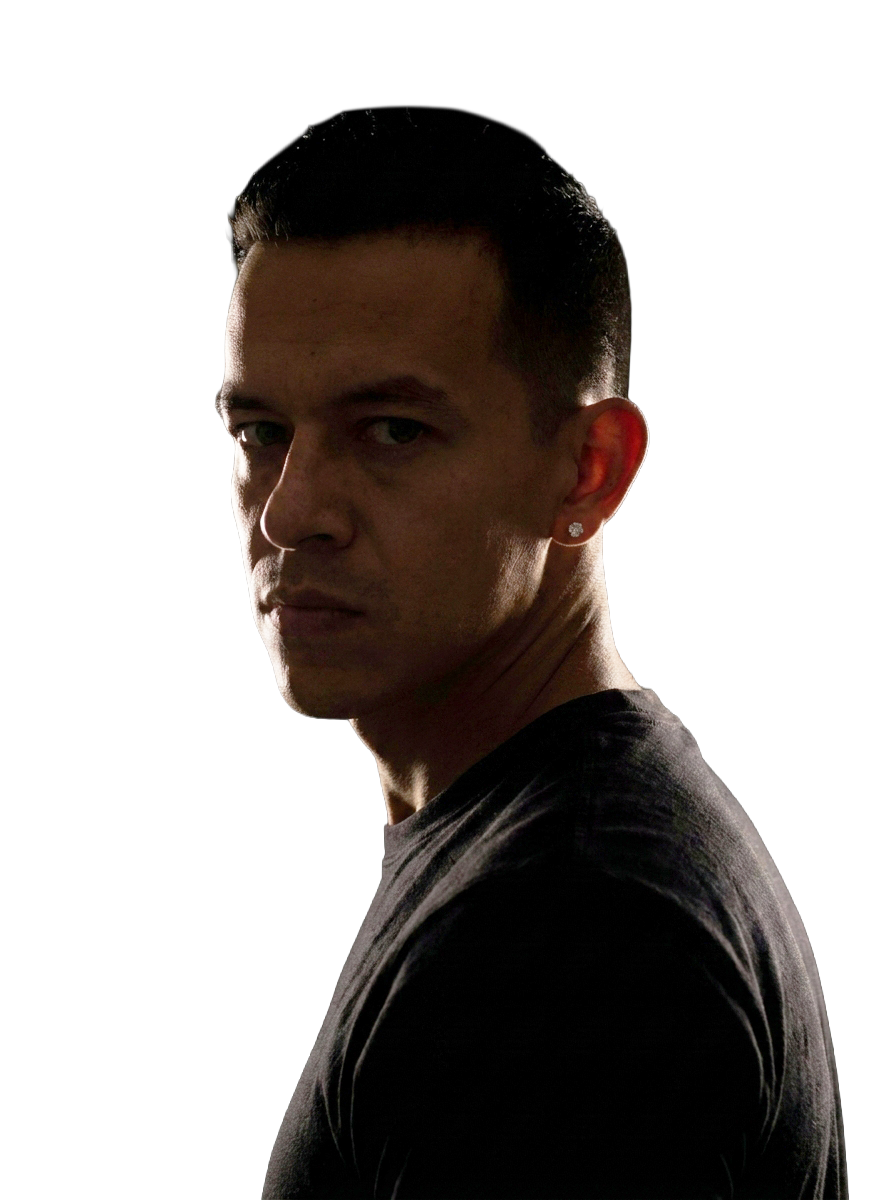
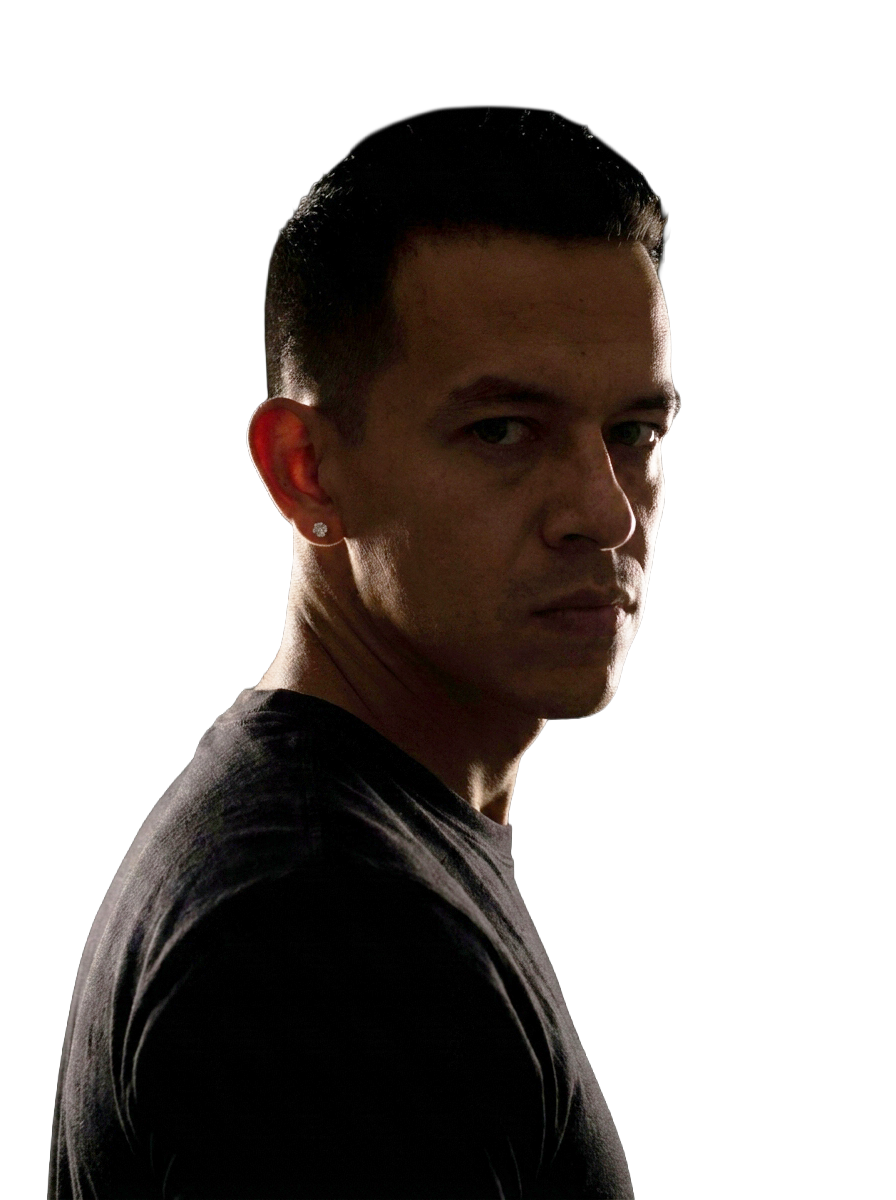
.

diff --git a/js/metodo.js b/js/metodo.js
@@ -1,13 +1,15 @@
 /* ═══════════════════════════════════════════════════════════════
    MÉTODO — Scroll horizontal + SplitText + ScrambleText
-   Animaciones reversibles, capas de profundidad
+   Animaciones cinematográficas reversibles, nivel Awwwards
 ═══════════════════════════════════════════════════════════════ */
 
 const Metodo = (() => {
   function init() {
     if (typeof gsap === 'undefined' || typeof ScrollTrigger === 'undefined') return;
 
-    gsap.registerPlugin(ScrambleTextPlugin);
+    if (typeof ScrambleTextPlugin !== 'undefined') {
+      gsap.registerPlugin(ScrambleTextPlugin);
+    }
 
     const section = document.querySelector('.metodo');
     if (!section) return;
@@ -42,7 +44,7 @@ const Metodo = (() => {
 
     const mm = gsap.matchMedia();
 
-    /* ══ DESKTOP/TABLET: scroll horizontal + animaciones reversibles ══ */
+    /* ══ DESKTOP/TABLET: scroll horizontal + animaciones cinematográficas ══ */
     mm.add('(min-width: 600px) and (prefers-reduced-motion: no-preference)', () => {
       const totalWidth = track.scrollWidth;
       const viewWidth  = window.innerWidth;
@@ -57,18 +59,18 @@ const Metodo = (() => {
 
         if (titulo && typeof SplitText !== 'undefined') {
           const s = new SplitText(titulo, { type: 'words' });
-          gsap.set(s.words, { opacity: 0, y: 40, rotateX: -15 });
+          gsap.set(s.words, { opacity: 0, y: 60, rotateX: -25, scale: 0.9 });
           splits.push(s);
         }
         if (desc && typeof SplitText !== 'undefined') {
           const s = new SplitText(desc, { type: 'words' });
-          gsap.set(s.words, { opacity: 0, y: 20 });
+          gsap.set(s.words, { opacity: 0, y: 30, filter: 'blur(4px)' });
           splits.push(s);
         }
         if (lineas.length && typeof SplitText !== 'undefined') {
           lineas.forEach(linea => {
             const s = new SplitText(linea, { type: 'chars' });
-            gsap.set(s.chars, { opacity: 0, y: 50, scale: 0.85 });
+            gsap.set(s.chars, { opacity: 0, y: 80, rotateY: -45, scale: 0.7 });
             splits.push(s);
           });
         }
@@ -80,7 +82,7 @@ const Metodo = (() => {
           trigger: section,
           start: 'top top',
           end: () => `+=${totalWidth - viewWidth}`,
-          scrub: 1.8,
+          scrub: 1.5,
           pin: true,
           anticipatePin: 1,
           invalidateOnRefresh: true,
@@ -92,7 +94,7 @@ const Metodo = (() => {
         ease: 'none',
       });
 
-      /* Animar cada panel — REVERSIBLE (sin once) */
+      /* ── Animar cada panel — REVERSIBLE ── */
       paneles.forEach(panel => {
         const titulo    = panel.querySelector('.metodo-panel-titulo');
         const desc      = panel.querySelector('.metodo-panel-desc');
@@ -104,8 +106,8 @@ const Metodo = (() => {
         ScrollTrigger.create({
           trigger: panel,
           containerAnimation: tl,
-          start: 'left 85%',
-          end: 'right 15%',
+          start: 'left 80%',
+          end: 'right 20%',
           onEnter: () => animarEntrada(panel, titulo, desc, num, watermark, lineas, manifiesto),
           onEnterBack: () => animarEntrada(panel, titulo, desc, num, watermark, lineas, manifiesto),
           onLeave: () => animarSalida(panel, titulo, desc, num, watermark, lineas, manifiesto),
@@ -113,56 +115,123 @@ const Metodo = (() => {
         });
       });
 
+      /* ── ENTRADA — Cinematográfica ── */
       function animarEntrada(panel, titulo, desc, num, watermark, lineas, manifiesto) {
+        /* Watermark: escala desde 1.5 con blur que se aclara */
         if (watermark) {
-          gsap.to(watermark, { scale: 1, opacity: 0.06, duration: 1, ease: 'power2.out' });
+          gsap.killTweensOf(watermark);
+          gsap.fromTo(watermark,
+            { scale: 1.5, opacity: 0, filter: 'blur(8px)' },
+            { scale: 1, opacity: 0.06, filter: 'blur(2px)', duration: 1.4, ease: 'power3.out' }
+          );
         }
+
+        /* Número de acto: fade con slide sutil */
         if (num) {
-          gsap.to(num, { opacity: 0.7, duration: 0.5, ease: 'power2.out' });
+          gsap.killTweensOf(num);
+          gsap.fromTo(num,
+            { opacity: 0, x: -20 },
+            { opacity: 0.7, x: 0, duration: 0.6, ease: 'power2.out' }
+          );
         }
-        if (titulo) {
-          const words = titulo.querySelectorAll('div');
-          gsap.to(words, { opacity: 1, y: 0, rotateX: 0, duration: 0.6, stagger: 0.04, ease: 'power3.out' });
-        }
+
+        /* Título intro (chars): cascada dramática con rotación 3D */
         if (lineas.length) {
           lineas.forEach((linea, i) => {
             const chars = linea.querySelectorAll('div');
-            gsap.to(chars, { opacity: 1, y: 0, scale: 1, duration: 0.5, stagger: 0.02, ease: 'back.out(1.3)', delay: i * 0.15 });
+            gsap.killTweensOf(chars);
+            gsap.fromTo(chars,
+              { opacity: 0, y: 80, rotateY: -45, scale: 0.7 },
+              {
+                opacity: 1, y: 0, rotateY: 0, scale: 1,
+                duration: 0.8,
+                stagger: { each: 0.03, from: 'start' },
+                ease: 'back.out(1.4)',
+                delay: i * 0.2,
+                force3D: true,
+              }
+            );
           });
         }
+
+        /* Título de acto (words): reveal elástico */
+        if (titulo) {
+          const words = titulo.querySelectorAll('div');
+          gsap.killTweensOf(words);
+          gsap.fromTo(words,
+            { opacity: 0, y: 60, rotateX: -25, scale: 0.9 },
+            {
+              opacity: 1, y: 0, rotateX: 0, scale: 1,
+              duration: 0.9,
+              stagger: 0.06,
+              ease: 'elastic.out(1, 0.6)',
+              force3D: true,
+            }
+          );
+        }
+
+        /* Descripción (words): fade up con blur clearing */
         if (desc) {
           const words = desc.querySelectorAll('div');
-          gsap.to(words, { opacity: 1, y: 0, duration: 0.4, stagger: 0.012, ease: 'power2.out', delay: 0.25 });
+          gsap.killTweensOf(words);
+          gsap.fromTo(words,
+            { opacity: 0, y: 30, filter: 'blur(4px)' },
+            {
+              opacity: 1, y: 0, filter: 'blur(0px)',
+              duration: 0.6,
+              stagger: 0.015,
+              ease: 'power3.out',
+              delay: 0.3,
+            }
+          );
         }
+
+        /* Texto manifiesto (palabras) */
         if (manifiesto) {
           const words = manifiesto.querySelectorAll('.metodo-palabra');
-          gsap.to(words, { opacity: 1, y: 0, duration: 0.4, stagger: 0.01, ease: 'power2.out' });
+          gsap.killTweensOf(words);
+          gsap.fromTo(words,
+            { opacity: 0, y: 15 },
+            {
+              opacity: 1, y: 0,
+              duration: 0.5,
+              stagger: 0.012,
+              ease: 'power2.out',
+            }
+          );
         }
       }
 
+      /* ── SALIDA — Elegante y rápida ── */
       function animarSalida(panel, titulo, desc, num, watermark, lineas, manifiesto) {
         if (watermark) {
-          gsap.to(watermark, { scale: 1.2, opacity: 0, duration: 0.5, ease: 'power2.in' });
+          gsap.killTweensOf(watermark);
+          gsap.to(watermark, { scale: 0.8, opacity: 0, filter: 'blur(6px)', duration: 0.5, ease: 'power2.in' });
         }
         if (num) {
-          gsap.to(num, { opacity: 0, duration: 0.3, ease: 'power2.in' });
+          gsap.killTweensOf(num);
+          gsap.to(num, { opacity: 0, x: 20, duration: 0.3, ease: 'power2.in' });
         }
         if (titulo) {
           const words = titulo.querySelectorAll('div');
-          gsap.to(words, { opacity: 0, y: -20, duration: 0.3, ease: 'power2.in' });
+          gsap.killTweensOf(words);
+          gsap.to(words, { opacity: 0, y: -30, scale: 0.95, duration: 0.35, ease: 'power2.in' });
         }
         if (lineas.length) {
           lineas.forEach(linea => {
             const chars = linea.querySelectorAll('div');
-            gsap.to(chars, { opacity: 0, y: -30, scale: 0.9, duration: 0.3, ease: 'power2.in' });
+            gsap.killTweensOf(chars);
+            gsap.to(chars, { opacity: 0, y: -40, rotateY: 30, scale: 0.8, duration: 0.35, ease: 'power2.in' });
           });
         }
         if (desc) {
           const words = desc.querySelectorAll('div');
-          gsap.to(words, { opacity: 0, y: -10, duration: 0.2, ease: 'power2.in' });
+          gsap.killTweensOf(words);
+          gsap.to(words, { opacity: 0, y: -15, filter: 'blur(3px)', duration: 0.25, ease: 'power2.in' });
         }
         if (manifiesto) {
           const words = manifiesto.querySelectorAll('.metodo-palabra');
+          gsap.killTweensOf(words);
           gsap.to(words, { opacity: 0, y: -10, duration: 0.2, ease: 'power2.in' });
         }
       }
@@ -173,7 +242,7 @@ const Metodo = (() => {
       };
     });
 
-    /* ══ MOBILE: scroll vertical ══ */
+    /* ══ MOBILE: scroll vertical con reveals ══ */
     mm.add('(max-width: 599px) and (prefers-reduced-motion: no-preference)', () => {
       track.style.flexDirection = 'column';
       track.style.width = '100%';
@@ -188,15 +257,30 @@ const Metodo = (() => {
         const titulo    = panel.querySelector('.metodo-panel-titulo');
         const desc      = panel.querySelector('.metodo-panel-desc');
         const watermark = panel.querySelector('.metodo-panel-watermark');
+        const lineas    = panel.querySelectorAll('.metodo-titulo-linea');
 
         ScrollTrigger.create({
           trigger: panel,
           start: 'top 75%',
           once: true,
           onEnter: () => {
-            if (watermark) gsap.to(watermark, { opacity: 0.04, duration: 0.8 });
-            if (titulo) gsap.from(titulo, { opacity: 0, y: 30, duration: 0.7, ease: 'power3.out' });
-            if (desc) gsap.from(desc, { opacity: 0, y: 20, duration: 0.6, delay: 0.2 });
+            if (watermark) {
+              gsap.fromTo(watermark,
+                { scale: 1.3, opacity: 0 },
+                { scale: 1, opacity: 0.04, duration: 1, ease: 'power2.out' }
+              );
+            }
+            if (lineas.length) {
+              lineas.forEach((linea, i) => {
+                gsap.from(linea, { opacity: 0, y: 40, duration: 0.7, ease: 'power3.out', delay: i * 0.15 });
+              });
+            }
+            if (titulo) {
+              gsap.from(titulo, { opacity: 0, y: 30, duration: 0.7, ease: 'power3.out' });
+            }
+            if (desc) {
+              gsap.from(desc, { opacity: 0, y: 20, duration: 0.6, delay: 0.2, ease: 'power2.out' });
+            }
           },
         });
       });

diff --git a/css/metodo.css b/css/metodo.css
@@ -6,25 +6,7 @@
 .metodo {
   position: relative;
   z-index: 4;
-  background: color-mix(in srgb, var(--color-fondo-secundario) 85%, transparent);
-  overflow: hidden;
-  transition: background-color var(--transicion-tema);
-}
-
-/* ── Degradado de entrada ── */
-.metodo-gradiente-entrada {
-  position: absolute;
-  top: -200px;
-  left: 0;
-  right: 0;
-  height: 200px;
-  background: linear-gradient(
-    to bottom,
-    transparent 0%,
-    color-mix(in srgb, var(--color-fondo-secundario) 85%, transparent) 100%
-  );
-  pointer-events: none;
-  transition: background var(--transicion-tema);
+  background: transparent;
 }
 
 .metodo-stage {
@@ -60,11 +42,28 @@
   gap: clamp(24px, 4vh, 48px);
 }
 
+/* ── Imagen overlay del panel intro ── */
+.metodo-intro-bg {
+  position: absolute;
+  inset: 0;
+  z-index: 0;
+  opacity: 1;
+  pointer-events: none;
+  background-image: url('../Rsc/Img/metodo.png');
+  background-size: contain;
+  background-position: left center;
+  background-repeat: no-repeat;
+  background-blend-mode: color-burn;
+}
+
 .metodo-titulo-principal {
+  position: relative;
+  z-index: 2;
   display: flex;
   flex-direction: column;
   align-items: center;
   gap: 0;
+  margin-left: 20%;
 }
 
 .metodo-titulo-linea {
@@ -240,6 +239,10 @@
 
 /* ── Mobile portrait ── */
 @media (max-width: 599px) {
+  .metodo-titulo-principal {
+    margin-left: 0;
+  }
+
   .metodo-titulo-linea {
     font-size: clamp(32px, 12vw, 64px);
   }
@@ -264,6 +267,10 @@
 
   .metodo-panel-desc {
     font-size: clamp(13px, 3.8vw, 16px);
+  }
+
+  .metodo-intro-bg {
+    opacity: 0.05;
   }
 }
 

diff --git a/index.html b/index.html
@@ -46,7 +46,7 @@
   <link rel="stylesheet" href="css/metodo.css" />
 </head>
 
-<body data-tema="neutro">
+<body data-tema="neutro" class="cursor-oculto">
 
   <!-- ══ Cursores ══ -->
   <div class="cursor-usuario" id="cursorUsuario" aria-hidden="true">
@@ -681,13 +681,13 @@
        MÉTODO — Los 5 Actos, scroll horizontal con SVG path
   ════════════════════════════════════════ -->
   <section class="metodo" id="metodo" aria-label="Mi método creativo">
-    <div class="metodo-gradiente-entrada" aria-hidden="true"></div>
 
     <div class="metodo-stage">
       <div class="metodo-track">
 
         <!-- Panel 1 — Título gigante -->
         <div class="metodo-panel metodo-panel--intro">
+          <div class="metodo-intro-bg" aria-hidden="true"></div>
           <h2 class="metodo-titulo-principal">
             <span class="metodo-titulo-linea">El Método:</span>
             <span class="metodo-titulo-linea">Del Escenario</span>

diff --git a/js/main.js b/js/main.js
@@ -20,7 +20,7 @@ document.addEventListener("DOMContentLoaded", () => {
   });
 
   /* ── Inicializar módulos ── */
-  // Cursor.init(); // DESACTIVADO temporalmente para editar MotionPath
+  Cursor.init();
   Hero.init();
   if (typeof TransicionHero !== "undefined") {
     TransicionHero.init();